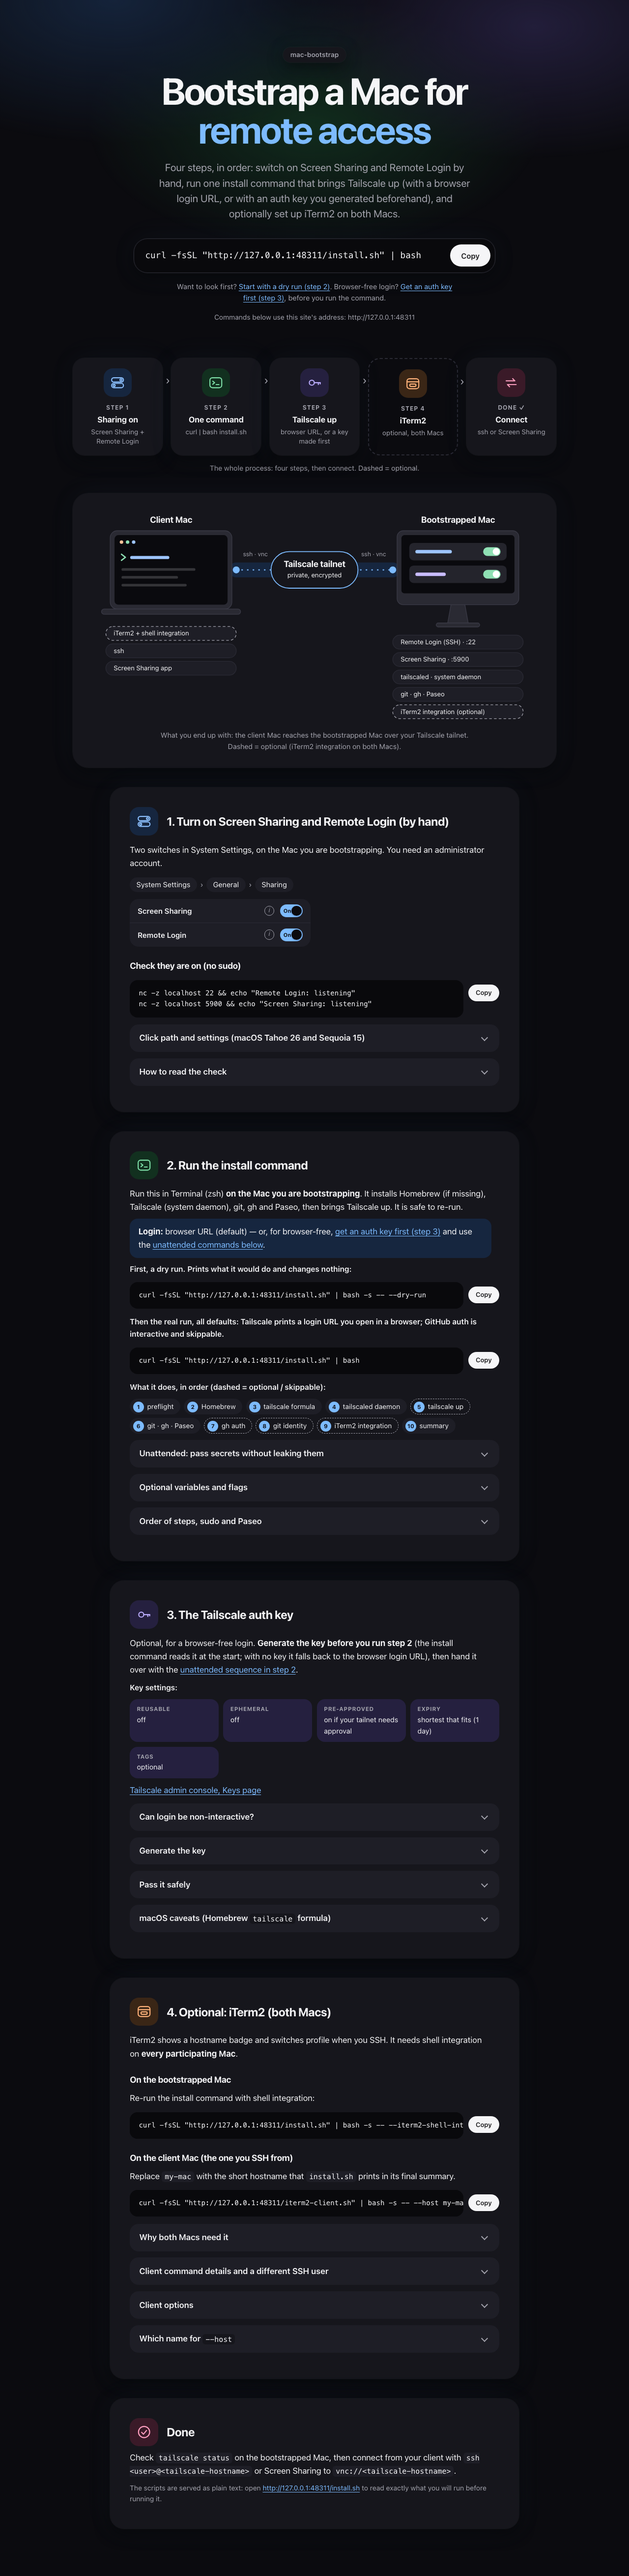
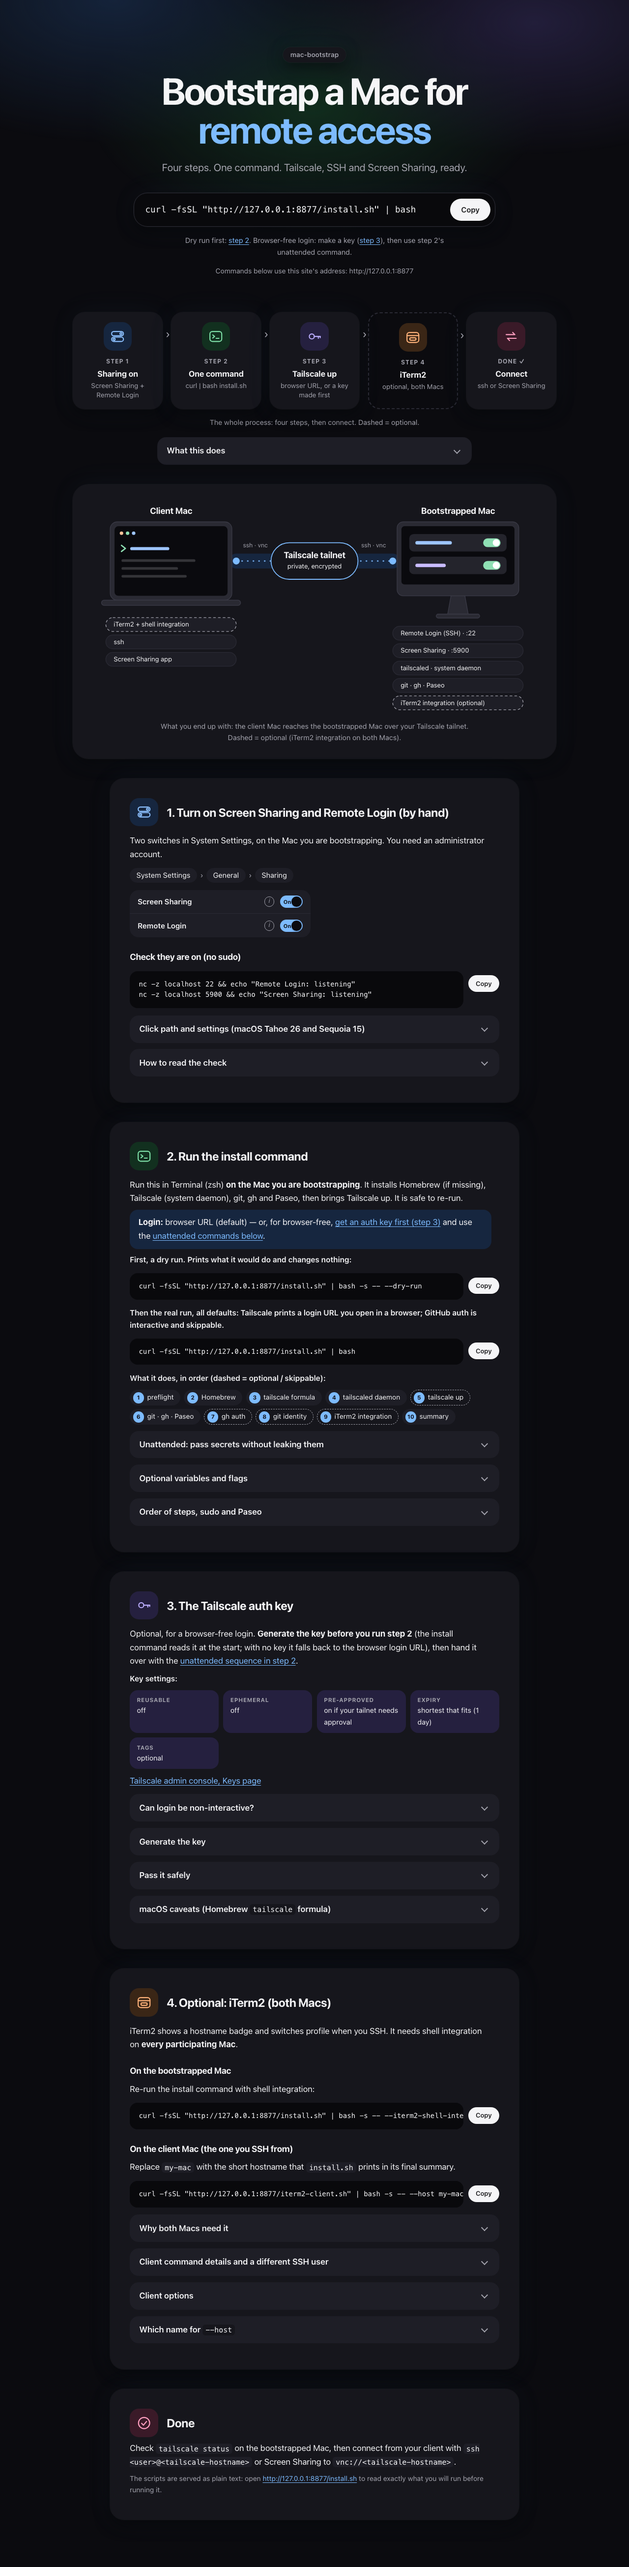
fix(site): <your-site> fallback commands without JS, unambiguous hero hint, short tagline (word budget), contrast checker NaN

diff --git a/public/index.html b/public/index.html
@@ -1,5 +1,5 @@
 <!doctype html>
-<html lang="en">
+<html lang="en" class="no-js">
 <head>
 <meta charset="utf-8">
 <meta name="viewport" content="width=device-width, initial-scale=1">
@@ -124,6 +124,8 @@ kbd{font:.85em ui-monospace,Menlo,monospace;background:var(--soft);border:1px so
 .keyset li{background:var(--t3);border-radius:16px;padding:.7rem .9rem;font-size:.9rem;max-width:none}
 .keyset b{display:block;font-size:.72rem;text-transform:uppercase;letter-spacing:.06em;color:var(--muted)}
 .done .sh{margin-bottom:.4rem}
+.no-js .cmd button{display:none}
+.what{max-width:40rem;margin:1.2rem auto 0}
 .rv{opacity:1}
 @media (prefers-reduced-motion:no-preference){
 html{scroll-behavior:smooth}
@@ -173,10 +175,10 @@ details{padding:.1rem .95rem}
 <header class="hero">
 <p class="eyebrow">mac-bootstrap</p>
 <h1>Bootstrap a Mac for <em>remote access</em></h1>
-<p class="lead">Four steps, in order: switch on Screen Sharing and Remote Login by hand, run one install command that brings Tailscale up (with a browser login URL, or with an auth key you generated beforehand), and optionally set up iTerm2 on both Macs.</p>
+<p class="lead">Four steps. One command. Tailscale, SSH and Screen Sharing, ready.</p>
 <div class="hero-cmd">
-<div class="cmd"><pre><code id="c-hero"></code></pre><button type="button" data-copy="c-hero" aria-label="Copy install command (hero)">Copy</button></div>
-<p class="hint">Want to look first? <a href="#install">Start with a dry run (step 2)</a>. Browser-free login? <a href="#authkey">Get an auth key first (step 3)</a>, before you run the command.</p>
+<div class="cmd"><pre><code id="c-hero">curl -fsSL "&lt;your-site&gt;/install.sh" | bash</code></pre><button type="button" data-copy="c-hero" aria-label="Copy install command (hero)">Copy</button></div>
+<p class="hint">Dry run first: <a href="#install">step 2</a>. Browser-free login: make a key (<a href="#authkey">step 3</a>), then use step 2's unattended command.</p>
 </div>
 <p id="origin-note" class="origin">Commands below are built from this page's address.</p>
 <noscript><p class="note">JavaScript is off, so commands show the literal placeholder <code>&lt;your-site&gt;</code>. Replace it with the address of this page.</p></noscript>
@@ -191,6 +193,7 @@ details{padding:.1rem .95rem}
 <li class="t5"><span class="ic"><svg aria-hidden="true"><use href="#i-link"/></svg></span><span class="tx"><span class="n"></span><b>Connect</b><span class="s">ssh or Screen Sharing</span></span></li>
 </ol>
 <figcaption>The whole process: four steps, then connect. Dashed = optional.</figcaption>
+<details class="what"><summary>What this does</summary><p>Four steps, in order: switch on Screen Sharing and Remote Login by hand, run one install command that brings Tailscale up (with a browser login URL, or with an auth key you generated beforehand), and optionally set up iTerm2 on both Macs.</p></details>
 </figure>
 <figure class="art rv-t">
 <svg class="dg dg-wide" viewBox="0 0 1040 490" role="img" aria-label="Architecture: the client Mac runs iTerm2 with shell integration, ssh and the Screen Sharing app. It reaches the bootstrapped Mac over a private Tailscale tailnet. The bootstrapped Mac runs Remote Login (SSH, port 22), Screen Sharing (port 5900), the tailscaled system daemon installed with Homebrew, git, gh and Paseo, and optionally iTerm2 shell integration; the iTerm2 integration on both Macs is optional."><title>Architecture</title>
@@ -289,9 +292,9 @@ nc -z localhost 5900 &amp;&amp; echo "Screen Sharing: listening"</code></pre><bu
 <p>Run this in Terminal (zsh) <strong>on the Mac you are bootstrapping</strong>. It installs Homebrew (if missing), Tailscale (system daemon), git, gh and Paseo, then brings Tailscale up. It is safe to re-run.</p>
 <p class="fork"><strong>Login:</strong> browser URL (default) — or, for browser-free, <a href="#authkey">get an auth key first (step 3)</a> and use the <a href="#secrets" data-open="secrets">unattended commands below</a>.</p>
 <p class="lbl">First, a dry run. Prints what it would do and changes nothing:</p>
-<div class="cmd"><pre><code id="c-dry"></code></pre><button type="button" data-copy="c-dry" aria-label="Copy dry-run command">Copy</button></div>
+<div class="cmd"><pre><code id="c-dry">curl -fsSL "&lt;your-site&gt;/install.sh" | bash -s -- --dry-run</code></pre><button type="button" data-copy="c-dry" aria-label="Copy dry-run command">Copy</button></div>
 <p class="lbl">Then the real run, all defaults: Tailscale prints a login URL you open in a browser; GitHub auth is interactive and skippable.</p>
-<div class="cmd"><pre><code id="c-run"></code></pre><button type="button" data-copy="c-run" aria-label="Copy install command">Copy</button></div>
+<div class="cmd"><pre><code id="c-run">curl -fsSL "&lt;your-site&gt;/install.sh" | bash</code></pre><button type="button" data-copy="c-run" aria-label="Copy install command">Copy</button></div>
 <p class="lbl">What it does, in order (dashed = optional / skippable):</p>
 <ol class="chips">
 <li>preflight</li><li>Homebrew</li><li>tailscale formula</li><li>tailscaled daemon</li><li class="opt">tailscale up</li><li>git · gh · Paseo</li><li class="opt">gh auth</li><li class="opt">git identity</li><li class="opt">iTerm2 integration</li><li>summary</li>
@@ -304,7 +307,7 @@ nc -z localhost 5900 &amp;&amp; echo "Screen Sharing: listening"</code></pre><bu
 </ol>
 <div class="cmd"><pre><code id="c-read1">read -rs "TS_AUTHKEY?Tailscale auth key: "; echo</code></pre><button type="button" data-copy="c-read1" aria-label="Copy Tailscale key prompt command">Copy</button></div>
 <div class="cmd"><pre><code id="c-read2">read -rs "GH_TOKEN?GitHub token: "; echo</code></pre><button type="button" data-copy="c-read2" aria-label="Copy GitHub token prompt command">Copy</button></div>
-<div class="cmd"><pre><code id="c-secret"></code></pre><button type="button" data-copy="c-secret" aria-label="Copy install command with secrets">Copy</button></div>
+<div class="cmd"><pre><code id="c-secret">curl -fsSL "&lt;your-site&gt;/install.sh" | TS_AUTHKEY="$TS_AUTHKEY" GH_TOKEN="$GH_TOKEN" bash</code></pre><button type="button" data-copy="c-secret" aria-label="Copy install command with secrets">Copy</button></div>
 <div class="cmd"><pre><code id="c-unset">unset TS_AUTHKEY GH_TOKEN</code></pre><button type="button" data-copy="c-unset" aria-label="Copy unset command">Copy</button></div>
 <p><strong>Why this shape:</strong> the hidden <code>read</code> keeps the secret out of your shell history (history records the literal <code>$TS_AUTHKEY</code>) and out of any command line (<code>ps</code> shows arguments, not variables); the variables are not exported, so only <code>bash</code> receives them, never <code>curl</code>. The script then removes them from its own environment before running anything else, so no child process (brew, curl, sudo) inherits them. This page never asks for a secret itself.</p>
 </details>
@@ -377,10 +380,10 @@ nc -z localhost 5900 &amp;&amp; echo "Screen Sharing: listening"</code></pre><bu
 <p>iTerm2 shows a hostname badge and switches profile when you SSH. It needs shell integration on <strong>every participating Mac</strong>.</p>
 <h3>On the bootstrapped Mac</h3>
 <p>Re-run the install command with shell integration:</p>
-<div class="cmd"><pre><code id="c-iterm-host"></code></pre><button type="button" data-copy="c-iterm-host" aria-label="Copy bootstrapped Mac iTerm2 command">Copy</button></div>
+<div class="cmd"><pre><code id="c-iterm-host">curl -fsSL "&lt;your-site&gt;/install.sh" | bash -s -- --iterm2-shell-integration</code></pre><button type="button" data-copy="c-iterm-host" aria-label="Copy bootstrapped Mac iTerm2 command">Copy</button></div>
 <h3>On the client Mac (the one you SSH from)</h3>
 <p>Replace <code>my-mac</code> with the short hostname that <code>install.sh</code> prints in its final summary.</p>
-<div class="cmd"><pre><code id="c-iterm-client"></code></pre><button type="button" data-copy="c-iterm-client" aria-label="Copy client Mac iTerm2 command">Copy</button></div>
+<div class="cmd"><pre><code id="c-iterm-client">curl -fsSL "&lt;your-site&gt;/iterm2-client.sh" | bash -s -- --host my-mac --shell-integration</code></pre><button type="button" data-copy="c-iterm-client" aria-label="Copy client Mac iTerm2 command">Copy</button></div>
 <details>
 <summary>Why both Macs need it</summary>
 <p>When you SSH from one Mac to the other, iTerm2 can show a hostname badge and switch profile automatically. This needs iTerm2 shell integration on <strong>every participating Mac</strong>: the remote reports its hostname to iTerm2, and the client needs it too so iTerm2 switches back to the original profile after the SSH session ends.</p>
@@ -389,7 +392,7 @@ nc -z localhost 5900 &amp;&amp; echo "Screen Sharing: listening"</code></pre><bu
 <summary>Client command details and a different SSH user</summary>
 <p>Replace <code>my-mac</code> with the short hostname that <code>install.sh</code> prints in its final summary on the bootstrapped Mac (see below). <code>--shell-integration</code> installs iTerm2 shell integration on the client as well.</p>
 <p>If your SSH user differs from your client user, add <code>--user &lt;ssh-user&gt;</code>:</p>
-<div class="cmd"><pre><code id="c-iterm-client-user"></code></pre><button type="button" data-copy="c-iterm-client-user" aria-label="Copy client Mac iTerm2 command with SSH user">Copy</button></div>
+<div class="cmd"><pre><code id="c-iterm-client-user">curl -fsSL "&lt;your-site&gt;/iterm2-client.sh" | bash -s -- --host my-mac --user your-ssh-user --shell-integration</code></pre><button type="button" data-copy="c-iterm-client-user" aria-label="Copy client Mac iTerm2 command with SSH user">Copy</button></div>
 </details>
 <details>
 <summary>Client options</summary>
@@ -417,11 +420,12 @@ nc -z localhost 5900 &amp;&amp; echo "Screen Sharing: listening"</code></pre><bu
 <section class="step done" aria-labelledby="done">
 <div class="sh"><span class="ic t5" aria-hidden="true"><svg aria-hidden="true"><use href="#i-done"/></svg></span><h2 id="done">Done</h2></div>
 <p>Check <code>tailscale status</code> on the bootstrapped Mac, then connect from your client with <code>ssh &lt;user&gt;@&lt;tailscale-hostname&gt;</code> or Screen Sharing to <code>vnc://&lt;tailscale-hostname&gt;</code>.</p>
-<p class="origin">The scripts are served as plain text: open <code id="l-install"></code> to read exactly what you will run before running it.</p>
+<p class="origin">The scripts are served as plain text: open <code id="l-install">&lt;your-site&gt;/install.sh</code> to read exactly what you will run before running it.</p>
 </section>
 </main>
 <script>
 (function () {
+  document.documentElement.classList.remove("no-js");
   var p = location.protocol;
   var real = p === "http:" || p === "https:";
   var origin = real ? location.origin : "<your-site>";
